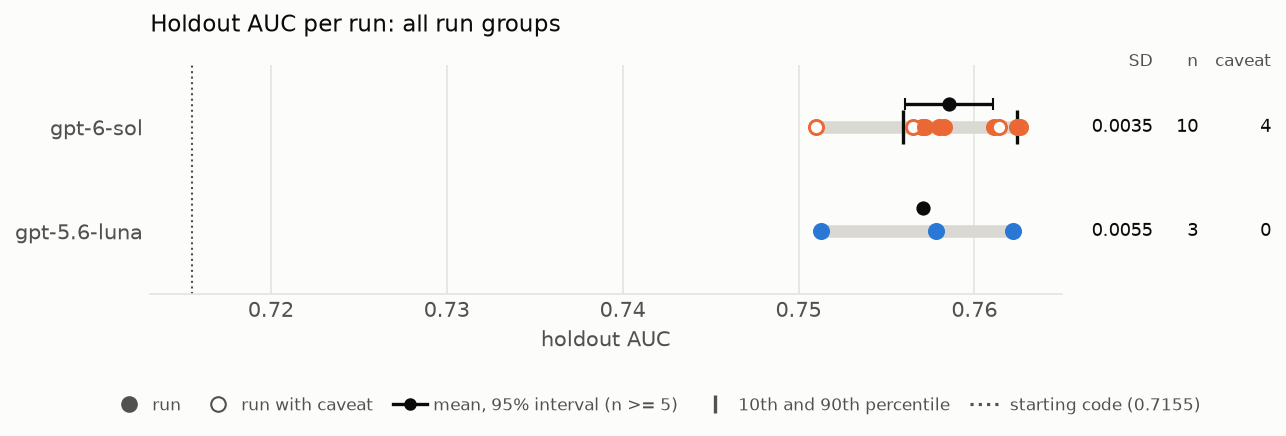
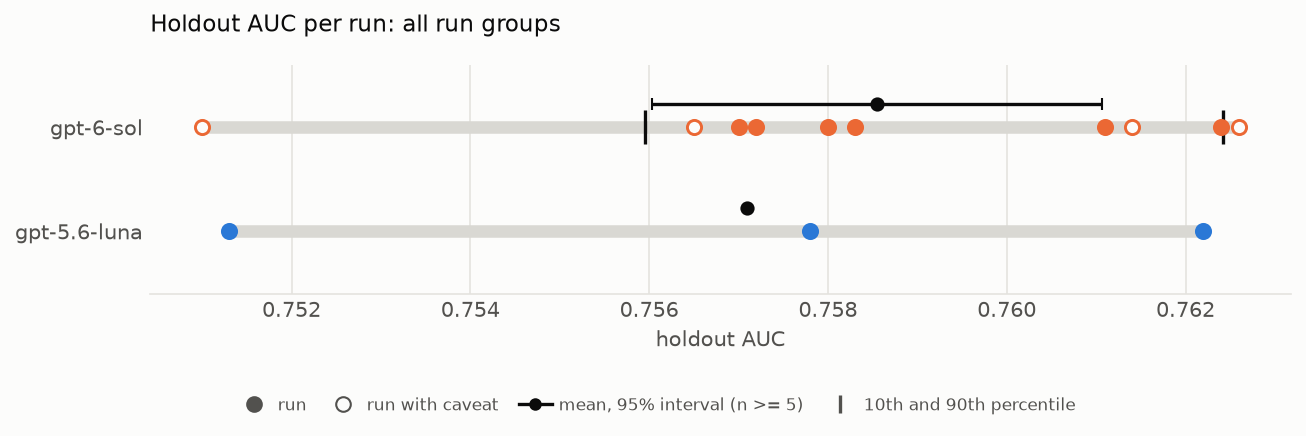
plot_holdout_auc: drop the SD/n/caveat columns and the starting-code line
The x axis now spans only the runs' holdout AUCs.

diff --git a/tools/plot_holdout_auc.py b/tools/plot_holdout_auc.py
@@ -8,9 +8,7 @@ row (all runs are effort max).
 
 Per row: a filled dot per valid run and a hollow dot per caveat run (runs with
 valid = "no" are left out), a grey bar over the full range, the mean with its
-95% interval (t) and the 10th/90th percentiles when the row has >= 5 runs, and
-at right the SD, n and number of caveat runs. Dotted line: the starting code's
-holdout AUC (baseline row of groundtruth_all.tsv).
+95% interval (t) and the 10th/90th percentiles when the row has >= 5 runs.
 
 Usage:
     tools/plot_holdout_auc.py                                          # all groups in run-multi/
@@ -27,7 +25,6 @@ import sys
 from pathlib import Path
 
 import matplotlib
-import matplotlib.transforms
 
 matplotlib.use("Agg")
 import matplotlib.pyplot as plt
@@ -41,8 +38,8 @@ SERIES = ["#2a78d6", "#eb6834", "#1baf7a", "#eda100", "#e87ba4", "#008300", "#4a
 # models not listed get the remaining slots in sorted order (and a warning)
 MODEL_SLOT = {"gpt-5.6-luna": 0, "gpt-6-sol": 1}
 SURFACE, INK, INK2, GRID, RANGE = "#fcfcfb", "#0b0b0b", "#52514e", "#e4e3df", "#d9d8d3"
-MIN_N_STATS = 5
-RUN_MULTI = Path(__file__).resolve().parent.parent / "run-multi"  # interval and percentiles only from this many runs up
+MIN_N_STATS = 5  # interval and percentiles only from this many runs up
+RUN_MULTI = Path(__file__).resolve().parent.parent / "run-multi"
 
 
 def load_group(gdir):
@@ -58,16 +55,6 @@ def load_group(gdir):
     return runs
 
 
-def baseline_holdout(gdir):
-    """Holdout AUC of the starting code, from the first run with a baseline row."""
-    for gt in sorted(gdir.glob("*/groundtruth_all.tsv")):
-        with open(gt) as f:
-            for r in csv.DictReader(f, delimiter="\t"):
-                if r["description"].startswith("baseline"):
-                    return float(r["holdout_auc"])
-    return None
-
-
 def main():
     ap = argparse.ArgumentParser(description=__doc__, formatter_class=argparse.RawDescriptionHelpFormatter)
     ap.add_argument("groups", nargs="*", type=Path,
@@ -80,19 +67,13 @@ def main():
         if not args.groups:
             sys.exit(f"no groups with holdout_auc.tsv in {RUN_MULTI}")
 
-    runs, baselines = [], set()
+    runs = []
     for g in args.groups:
         if not (g / "holdout_auc.tsv").is_file():
             sys.exit(f"{g}: no holdout_auc.tsv")
         runs += load_group(g)
-        b = baseline_holdout(g)
-        if b is not None:
-            baselines.add(b)
     if not runs:
         sys.exit("no valid runs")
-    if len(baselines) > 1:
-        print(f"warning: groups have different baselines {sorted(baselines)}; not drawing one", file=sys.stderr)
-    baseline = baselines.pop() if len(baselines) == 1 else None
 
     models = sorted({r["model"] for r in runs})
     colour = {m: SERIES[MODEL_SLOT[m]] for m in models if m in MODEL_SLOT}
@@ -106,36 +87,30 @@ def main():
     rows = sorted(models, key=lambda m: -st.mean(r["holdout"] for r in runs if r["model"] == m))
 
     fig, ax = plt.subplots(figsize=(9, 1.6 + 0.55 * len(rows)), facecolor=SURFACE)
-    fig.subplots_adjust(bottom=0.85 / (1.6 + 0.55 * len(rows)), right=0.8)
+    fig.subplots_adjust(bottom=0.85 / (1.6 + 0.55 * len(rows)), right=0.97)
     ax.set_facecolor(SURFACE)
-    xs_all = [r["holdout"] for r in runs] + ([baseline] if baseline else [])
-    lo, hi = min(xs_all), max(xs_all)
+    lo, hi = min(r["holdout"] for r in runs), max(r["holdout"] for r in runs)
     pad = (hi - lo) * 0.05 or 0.001
     ax.set_xlim(lo - pad, hi + pad)
 
-    table = []
     for i, m in enumerate(rows):
         y = len(rows) - 1 - i
         rr = [r for r in runs if r["model"] == m]
         x = np.array([r["holdout"] for r in rr])
-        n, n_cav = len(x), sum(r["valid"] == "caveat" for r in rr)
+        n = len(x)
         ax.plot([x.min(), x.max()], [y, y], color=RANGE, lw=6, solid_capstyle="round", zorder=1)
         for r in rr:
             filled = r["valid"] == "yes"
             ax.scatter(r["holdout"], y, s=46, zorder=3, linewidths=1.4,
                        facecolors=colour[m] if filled else SURFACE, edgecolors=colour[m])
         mean = x.mean()
-        sd = x.std(ddof=1) if n > 1 else float("nan")
         if n >= MIN_N_STATS:
-            half = stats.t.ppf(0.975, n - 1) * sd / np.sqrt(n)
+            half = stats.t.ppf(0.975, n - 1) * x.std(ddof=1) / np.sqrt(n)
             ax.errorbar(mean, y + 0.22, xerr=half, fmt="none", ecolor=INK, elinewidth=1.6, capsize=3, zorder=4)
             p10, p90 = np.percentile(x, [10, 90])
             ax.scatter([p10, p90], [y, y], marker="|", s=260, color=INK, linewidths=1.6, zorder=2)
         ax.scatter(mean, y + 0.22, s=34, color=INK, zorder=5)
-        table.append((y, sd, n, n_cav))
 
-    if baseline:
-        ax.axvline(baseline, color=INK2, lw=1, ls=":", zorder=0)
     ax.set_yticks(range(len(rows)))
     ax.set_yticklabels(list(reversed(rows)), color=INK)
     ax.set_ylim(-0.6, len(rows) - 0.4)
@@ -147,16 +122,6 @@ def main():
     ax.spines["bottom"].set_color(GRID)
     ax.tick_params(colors=INK2, length=0)
 
-    # right-hand columns: SD, n, caveat (x in axes fraction, y in data)
-    trans = matplotlib.transforms.blended_transform_factory(ax.transAxes, ax.transData)
-    cols = [("SD", 1.10), ("n", 1.15), ("caveat", 1.23)]
-    for name, cx in cols:
-        ax.text(cx, len(rows) - 0.45, name, ha="right", va="bottom", fontsize=8, color=INK2, transform=trans)
-    for y, sd, n, n_cav in table:
-        vals = ["" if np.isnan(sd) else f"{sd:.4f}", str(n), str(n_cav)]
-        for (name, cx), v in zip(cols, vals):
-            ax.text(cx, y, v, ha="right", va="center", fontsize=8.5, color=INK, transform=trans)
-
     groups = "all run groups" if all_groups else ", ".join(g.name for g in args.groups)
     ax.set_title(f"Holdout AUC per run: {groups}", color=INK, fontsize=11, loc="left", pad=16)
     legend = [
@@ -166,8 +131,6 @@ def main():
         Line2D([], [], marker="o", color=INK, markersize=5, lw=1.6, label=f"mean, 95% interval (n >= {MIN_N_STATS})"),
         Line2D([], [], marker="|", ls="", color=INK2, markersize=9, markeredgewidth=1.6, label="10th and 90th percentile"),
     ]
-    if baseline:
-        legend.append(Line2D([], [], color=INK2, ls=":", label=f"starting code ({baseline:.4f})"))
     fig.legend(handles=legend, loc="lower center", bbox_to_anchor=(0.5, -0.02),
               ncol=len(legend), frameon=False, fontsize=8, labelcolor=INK2, handletextpad=0.4, columnspacing=1.2)
 
